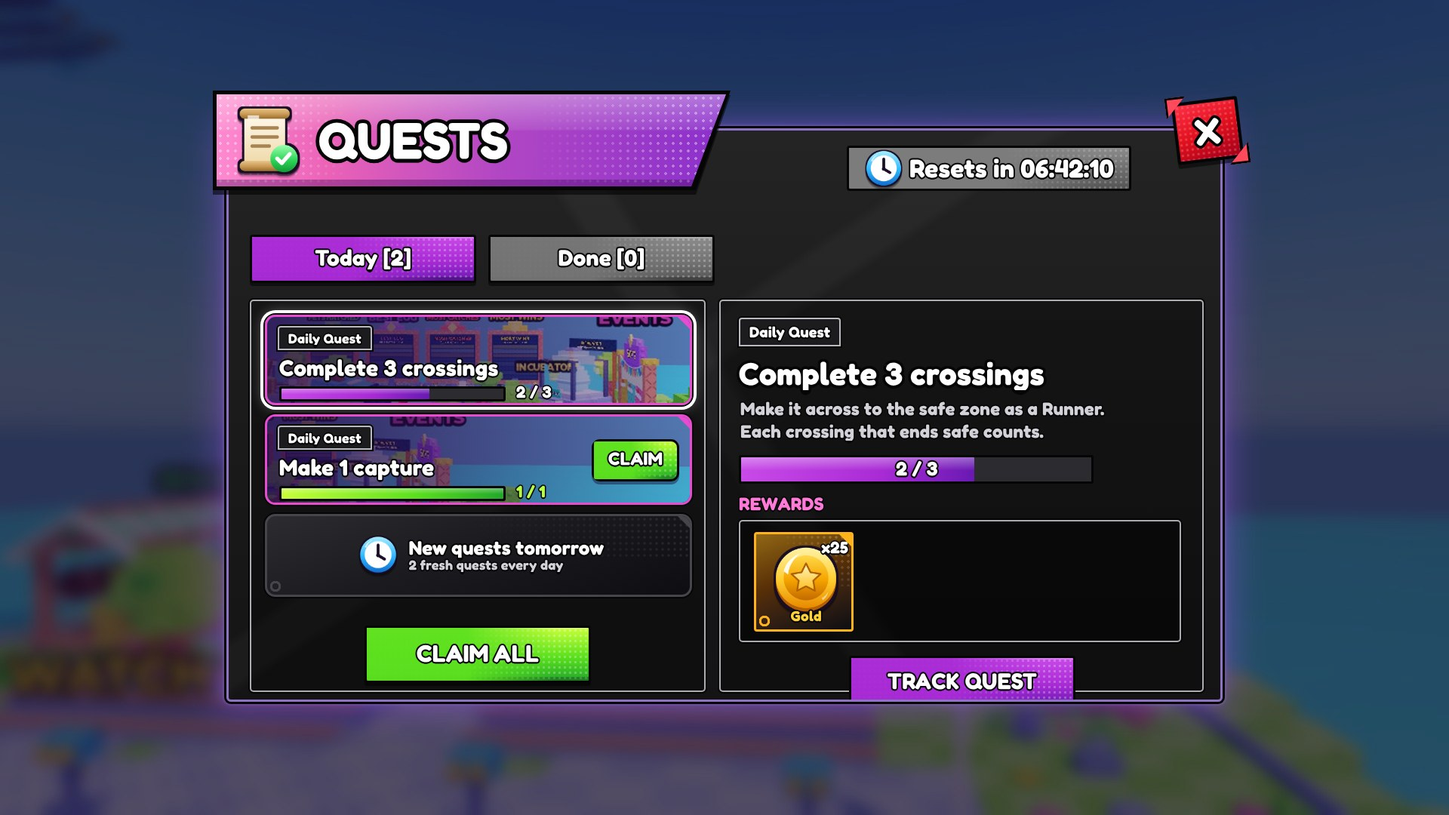
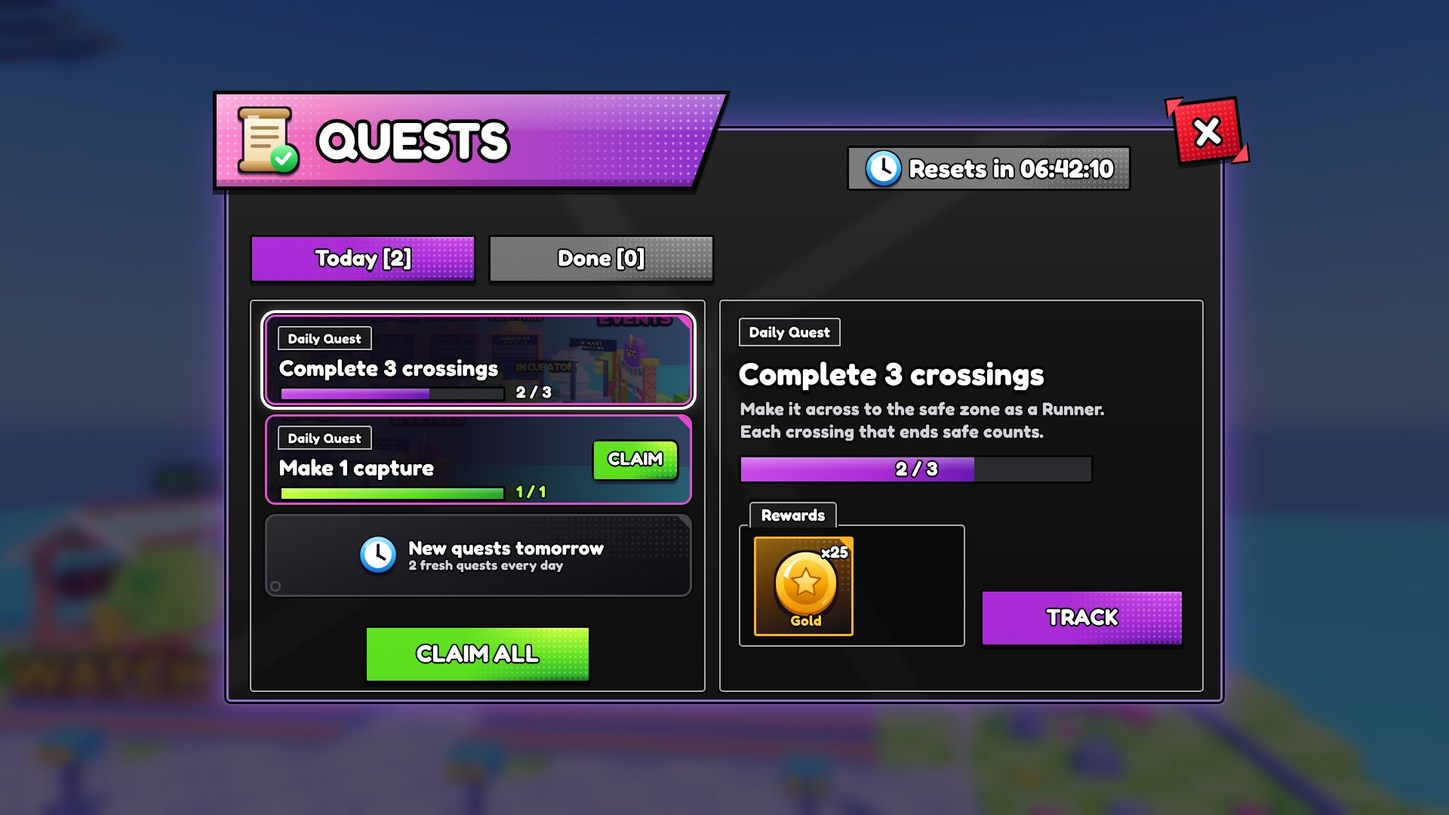
HOS-UI-003: review pass + Huss Valley HUD layout
HUD (lobby, match, phone) rebuilt to the Huss Valley layout in our style; folder-tab section
labels on wells; ring dot removed under tile labels; readable lobby timer; Quests rewards/track;
Incubator restructured; Results gems colour; keycap glyph.

Claude-Session: https://claude.ai/code/session_01RfKJiKr9ePhA7FoxdhhxZp

Changed region(s): [[0.1875, 0.3667, 0.5, 0.6417], [0.5, 0.6111, 0.8438, 0.8861]]

diff --git a/ui/styles/sport.css b/ui/styles/sport.css
@@ -154,3 +154,10 @@ img[src*='sunburst'] { opacity: .12 !important; }
 .f-orange { --fg: linear-gradient(#ffa040, #ffa040); } .f-teal { --fg: linear-gradient(#4af0d0, #4af0d0); }
 .f-violet { --fg: linear-gradient(#b89aff, #b89aff); }
 .sbn .spk { display: none; }  /* sparkle removed: Hunter 16 Oct, sat on the icon */
+
+/* round-3 review pass (16 Oct) */
+.wtab { position: absolute; height: 34px; padding: 0 14px; display: flex; align-items: center; z-index: 3;
+  border-radius: 5px 5px 0 0; border: 2px solid rgba(225,225,232,.75); border-bottom: 0; box-shadow: 0 -2px 0 2px #050506;
+  background: #1c1c1e; }
+.cs.lab { background: linear-gradient(160deg, color-mix(in srgb, var(--r2) 55%, #0c0c10) 0%, color-mix(in srgb, var(--r3) 60%, #0c0c10) 45%, #0e0e12 100%); }
+.cs.fill.lab { background: linear-gradient(160deg, var(--r2) 0%, var(--r3) 60%, color-mix(in srgb, var(--r3) 45%, #000) 100%); }

diff --git a/ui/build.py b/ui/build.py
@@ -131,8 +131,10 @@ def bl(text, size=34, fill='', name=None):
     return T(text, size, 's', fill, name=name)
 
 
-def well(x, y, w, h, inner='', name=None, solid=False, style=''):
-    return box(x, y, w, h, inner, 'cw' + (' solid' if solid else ''), style, name=name)
+def well(x, y, w, h, inner='', name=None, solid=False, style='', title=None, extra=''):
+    """Sub-box. title = the reference's folder tab ("Status") sitting on the top edge, white text."""
+    tab = (f"<div class='wtab' style='left:{x + 14}px;top:{y - 30}px'>{T(title, 22, 'xs')}{extra}</div>" if title else '')
+    return tab + box(x, y, w, h, inner, 'cw' + (' solid' if solid else ''), style, name=name)
 
 
 def slot(x, y, s, rarity, icon=None, count=None, label=None, cls='', name=None, art_pad=.14, label_size=None, inner_extra=''):
@@ -145,7 +147,7 @@ def slot(x, y, s, rarity, icon=None, count=None, label=None, cls='', name=None, 
     if label:
         inner += at(s // 2, s - int(s * .26), T(label, label_size or max(16, int(s * .15)), 'xs', FILL.get(rarity, '')), w=s + 20, align='center', name='Label')
     inner += inner_extra
-    return box(x, y, s, s, inner, f'cs r-{rarity} {cls}', name=name)
+    return box(x, y, s, s, inner, f'cs r-{rarity} {cls}' + (' lab' if label else ''), name=name)
 
 
 def stars(n, of=3, size=26):
@@ -222,7 +224,7 @@ def hpill(x, y, w, h, color, icon, label, name, opens=None, size=34, badge=False
     inner = f"<div class='hp k-{color}' style='left:{x}px;top:{y}px;width:{w}px;height:{h}px'><div class='lbl'>{T(label, size, 's', name='Label')}</div></div>"
     inner += I(icon, x - 14, y - 12, h + 24, name='Icon')
     if badge:
-        inner += box(x + w - 30, y - 14, 44, 44, T('!', 26, 'xs'), 'badge', name='Badge')
+        inner += box(x + w - 18, y - 20, 40, 40, T('!', 24, 'xs'), 'badge', name='Badge')
     return sub(name, inner, btn=True, opens=opens)
 
 
@@ -258,16 +260,17 @@ def ability_card(y=944, lobby=True, cd=None):
     out += at(x + 122, y + 12, row(icn(pool[2], 40), T(pool[1].upper(), 38, 's', name='AbilityName')), name='AbilityRow')
     sub_t = 'SHADES SHARK  ·  EQUIPPED' if lobby else ('READY!' if cd is None else f'RECHARGING  {cd}s')
     out += at(x + 124, y + 64, T(sub_t, 20, 'xs', 'f-orange' if cd is None else 'f-dim', name='Status'))
-    out += f"<div class='keycap' data-n='Key' style='left:{x + w - 82}px;top:{y + 26}px'>{T('Q', 32, 's')}</div>"
+    out += f"<div class='keycap' data-n='Key' style='left:{x + w - 82}px;top:{y + 26}px'>{T('Q', 30, 's', style='font-family:Montserrat;font-weight:900')}</div>"
     out += bar(x + 120, y + h - 20, w - 220, 14, 1 if cd is None else .42, 'orange', 'Cooldown')
     return grp('Ability', out, 'B')
 
 
 def lobby_status():
-    out = btn(880, 12, 160, 48, 'sky', T('LOBBY', 26, 's'), cls='sm', name='PhaseChip')
-    out += at(960, 68, T('NEXT MATCH IN', 28, 's', 'f-dim', name='Headline'), w=500, align='center')
-    out += at(960, 98, T('0:12', 92, 'xl', name='Timer'), w=500, align='center')
-    out += at(960, 202, T('4 / 4 players ready', 28, 's', 'f-lime', name='Subline'), w=600, align='center')
+    out = f"<div class='glass' style='left:810px;top:14px;width:300px;height:206px'></div>"   # readable over bright sky
+    out += btn(850, 0, 220, 44, 'purple', T('LOBBY', 24, 's'), cls='sm', name='PhaseChip')
+    out += at(960, 54, T('NEXT MATCH IN', 22, 'xs', 'f-dim', name='Headline'), w=300, align='center')
+    out += at(960, 78, T('0:12', 88, 'xl', name='Timer'), w=300, align='center')
+    out += at(960, 176, T('4 / 4 players ready', 24, 's', 'f-lime', name='Subline'), w=300, align='center')
     return grp('Status', out, 'T')
 
 
@@ -276,7 +279,7 @@ def goal_pill():
     out = f"<div class='glass' style='left:{x}px;top:{y}px;width:{w}px;height:{h}px'></div>"
     out += slot(x + 14, y + 12, 80, 'common', 'piece_common', name='GoalSlot', art_pad=.1)
     out += at(x + 108, y + 12, T('YOUR FIRST PET', 28, 's', name='GoalTitle'))
-    out += at(x + w - 20, y + 14, T('4 / 2', 26, 's', 'f-lime', name='GoalCount'), w=140, align='right')
+    out += at(x + w - 20, y + 14, T('2 / 2', 26, 's', 'f-lime', name='GoalCount'), w=140, align='right')
     out += bar(x + 108, y + 56, w - 128, 30, 1, 'lime', 'GoalBar')
     out += at(x + 108 + (w - 128) // 2, y + 57, T('READY TO HATCH!', 18, 'xs'), w=w - 128, align='center')
     return sub('GoalPill', out, btn=True, opens='Incubator')
@@ -295,11 +298,11 @@ def hud_groups():
     return grp('TopLeft', tl, 'TL') + grp('TopRight', tr, 'TR') + grp('LeftRail', left, 'L') + lobby_status() + wallet() + ability_card()
 
 
-def s_hud():
+def s_hud_v1():
     return world() + topbar() + hud_groups()
 
 
-def s_hud_phone():
+def s_hud_phone_v1():
     """Landscape phone: canvas ~0.36x, so the rail and wallet grow; Roblox thumbstick/jump kept clear."""
     out = world() + topbar()
     tl = hpill(250, 22, 262, 84, 'pink', 'quests', 'QUESTS', 'QuestsButton', 'Quests', size=32, badge=True)
@@ -317,7 +320,7 @@ def s_hud_phone():
 
 
 # ================================================================== HUD (match): economy hidden (GDD 14)
-def s_hud_match():
+def s_hud_match_v1():
     out = world() + topbar()
     role = f"<div class='hp k-sky' style='left:250px;top:22px;width:360px;height:96px'><div class='lbl' style='padding-left:118px'>{col(T('RUNNER', 40, 'l', name='RoleText'), T('Reach the safe zone!', 20, 'xs', name='RoleHint'), gap=0, align='flex-start')}</div></div>"
     role += I('runner', 230, 8, 120, name='RoleIcon')
@@ -353,6 +356,134 @@ def s_hud_match():
     return out
 
 
+
+# ================================================================== HUD v2: Huss Valley LAYOUT (Hunter, 16 Oct), our style
+# Positions copied from the Huss Valley lobby/round screenshots (1920 design): small pills beside Roblox's
+# buttons (top-left), phase + one-line headline + subline (top-centre), two pills (top-right), a slim
+# vertical rail (left middle), currency plates stacked (bottom-left), ability card + "SPACE · DASH" with a
+# long dash bar (bottom-centre). Additions for our GDD: first-pet goal under the top-left pills (FTUE),
+# egg level replacing the wallet in a match (GDD 14), a compact steal feed (top-right, match only).
+def hv_pill(x, y, w, color, icon, label, name, opens=None, badge=False, h=58):
+    inner = f"<div class='hp k-{color}' style='left:{x}px;top:{y}px;width:{w}px;height:{h}px'><div class='lbl' style='padding-left:{h + 6}px'>{T(label, 26, 's', name='Label')}</div></div>"
+    inner += I(icon, x - 6, y - 8, h + 14, name='Icon')
+    if badge:
+        inner += box(x + w - 16, y - 14, 34, 34, T('!', 20, 'xs'), 'badge', name='Badge')
+    return sub(name, inner, btn=True, opens=opens)
+
+
+def hv_rail_btn(x, y, s, color, icon, label, name, opens=None, state=None, key=None):
+    inner = f"<div class='hb k-{color}' style='left:{x}px;top:{y}px;width:{s}px;height:{s}px'></div>"
+    inner += I(icon, x + int(s * .14), y + int(s * .04), int(s * .72), name='Icon')
+    inner += at(x + s // 2, y + s - 26, T(label, 19, 'xs', name='Label'), w=s + 20, align='center')
+    if state:
+        inner += btn(x + s - 30, y - 12, 54, 28, 'lime' if state == 'ON' else 'grey', T(state, 14, 'xs', name='StateText'), cls='sm', name='State')
+    if key:
+        inner += f"<div class='keycap' style='left:{x + s - 20}px;top:{y - 10}px;width:32px;height:32px;border-width:3px'>{T(key, 16, 'xs', style='font-family:Montserrat;font-weight:900')}</div>"
+    return sub(name, inner, btn=True, opens=opens)
+
+
+def hv_topcenter(phase, head, subline, extra=''):
+    out = at(960, 6, T(phase, 22, 'xs', name='Phase'), w=600, align='center')
+    out += at(960, 30, T(head, 50, 'l', name='Headline'), w=1200, align='center')
+    out += at(960, 98, subline, w=900, align='center', name='Subline')
+    return grp('Status', out + extra, 'T')
+
+
+def hv_plate(y, icon, value, label, fill, name):
+    out = f"<div class='glass' style='left:12px;top:{y}px;width:340px;height:84px'></div>"
+    out += I(icon, 20, y + 8, 68, name=f'{name}Icon')
+    out += at(100, y + 6, T(value, 46, 'l', fill, name=f'{name}Text'))
+    out += at(102, y + 58, T(label, 15, 'xs', 'f-dim'))
+    return out
+
+
+def hv_ability(lobby=True, cd=None):
+    pool = POOL['DoubleDash']
+    x, y, w, h = 740, 820, 440, 96
+    out = f"<div class='glass' style='left:{x}px;top:{y}px;width:{w}px;height:{h}px'></div>"
+    out += f"<div class='wtab' style='left:{x + 12}px;top:{y - 26}px;height:28px'>{T('ABILITY', 14, 'xs')}</div>"
+    out += box(x + 14, y + 16, 72, 72, I(pet_img('ShadesShark'), 2, 2, 68), '', 'border-radius:50%;border:3px solid #4ed45a;box-shadow:0 0 0 2px #050506;background:radial-gradient(#2a6a34,#0e1a12);overflow:hidden', name='PetDisc')
+    out += at(x + 100, y + 18, row(icn(pool[2], 30), T(pool[1].upper(), 28, 's', name='AbilityName'), gap=6))
+    st = 'EQUIPPED  ·  SHADES SHARK' if lobby else ('READY' if cd is None else f'RECHARGING  {cd}s')
+    out += at(x + 102, y + 56, T(st, 15, 'xs', 'f-orange' if cd is None else 'f-dim', name='Status'))
+    out += f"<div class='keycap' data-n='Key' style='left:{x + w - 64}px;top:{y + 22}px;width:48px;height:48px'>{T('Q', 26, 's', style='font-family:Arial,sans-serif;font-weight:900')}</div>"
+    out += bar(x + 100, y + h - 14, w - 180, 8, 1 if cd is None else .42, 'orange', 'Cooldown')
+    return grp('Ability', out, 'B')
+
+
+def hv_dash(left, right, frac=1):
+    out = at(960, 934, row(T('SPACE', 24, 's'), T('·', 24, 's', 'f-dim'), T('DASH', 24, 's'), gap=10), w=400, align='center')
+    out += at(630, 966, T(left, 15, 'xs', name='DashState'))
+    out += at(1290, 966, T(right, 15, 'xs', 'f-dim', name='DashHint'), w=500, align='right')
+    out += bar(630, 990, 660, 14, frac, 'sky', 'DashBar')
+    return grp('Dash', out, 'B')
+
+
+def hv_goal():
+    x, y, w, h = 228, 86, 460, 74
+    out = f"<div class='glass' style='left:{x}px;top:{y}px;width:{w}px;height:{h}px'></div>"
+    out += I('piece_common', x + 8, y + 6, 62, name='GoalIcon')
+    out += at(x + 80, y + 8, T('YOUR FIRST PET', 20, 'xs', name='GoalTitle'))
+    out += at(x + w - 14, y + 8, T('2 / 2', 20, 'xs', 'f-lime', name='GoalCount'), w=120, align='right')
+    out += bar(x + 80, y + 38, w - 96, 24, 1, 'lime', 'GoalBar') + at(x + 80 + (w - 96) // 2, y + 39, T('READY TO HATCH!', 15, 'xs'), w=w - 96, align='center')
+    return sub('GoalPill', out, btn=True, opens='Incubator')
+
+
+def s_hud():
+    out = world() + topbar()
+    tl = hv_pill(240, 12, 196, 'purple', 'quests', 'QUESTS', 'QuestsButton', 'Quests', badge=True)
+    tl += hv_pill(452, 12, 236, 'lime', 'incubator', 'INCUBATOR', 'IncubatorButton', 'Incubator', badge=True) + hv_goal()
+    tr = hv_pill(1468, 12, 196, 'blue', 'stats', 'STATS', 'StatsButton', 'Stats') + hv_pill(1680, 12, 228, 'grey', 'settings', 'SETTINGS', 'SettingsButton', 'Settings')
+    rail = (hv_rail_btn(10, 330, 96, 'gold', 'shop', 'SHOP', 'ShopButton', 'Shop', key='B') + hv_rail_btn(10, 440, 96, 'sky', 'pets', 'PETS', 'PetsButton', 'Pets', key='P')
+            + hv_rail_btn(10, 550, 96, 'grey', 'afk', 'AFK', 'AFKToggle', state='OFF') + hv_rail_btn(10, 660, 96, 'red', 'hunt', 'HUNT', 'VolunteerToggle', state='ON'))
+    out += grp('TopLeft', tl, 'TL') + grp('TopRight', tr, 'TR') + grp('Rail', rail, 'L')
+    out += hv_topcenter('LOBBY', 'Next match in 0:12', row(T('4 / 4 players ready', 22, 'xs', 'f-lime'), T('·', 22, 'xs', 'f-dim'), T('you start as a Runner', 22, 'xs'), gap=8))
+    out += grp('Wallet', hv_plate(878, 'gold', '1,250', 'GOLD', 'f-gold', 'Gold') + hv_plate(972, 'gem', '12', 'GEMS', 'f-lime', 'Gems'), 'BL')
+    out += hv_ability() + hv_dash('DASH READY', 'Move, then turn + dash')
+    return out
+
+
+def s_hud_match():
+    out = world() + topbar()
+    pips = ''.join(f"<span class='pip k-lime{' on' if i == 0 else ''}' style='position:relative;display:inline-block;margin:0 8px'></span>" for i in range(3))
+    sub_l = row(T('Runner', 22, 'xs', 'f-sky', name='RoleText'), T('·', 22, 'xs', 'f-dim'), T('0:21', 22, 'xs', name='Timer'), T('·', 22, 'xs', 'f-dim'),
+                T('14 Runners', 22, 'xs', 'f-sky'), T('vs', 22, 'xs', 'f-dim'), T('4 Catchers', 22, 'xs', 'f-red'), gap=8)
+    streak = at(960, 138, row(T('CLEAN STREAK', 15, 'xs', 'f-dim'), f"<span style='display:inline-flex'>{pips}</span>", gap=8), w=400, align='center')
+    out += hv_topcenter('CROSSING 2', 'Cross to the opposite safe side!', sub_l, streak)
+    eg = f"<div class='glass' style='left:12px;top:878px;width:340px;height:178px'></div>"
+    eg += slot(26, 892, 112, 'rare', 'egg_shiny', name='EggSlot', art_pad=.1)
+    eg += at(152, 896, T('YOUR EGG', 16, 'xs', 'f-dim')) + at(152, 918, T('LEVEL 2', 44, 'l', 'f-rare', name='EggLevel'))
+    for i in range(4):
+        eg += f"<div class='pip k-sky{' on' if i < 2 else ''}' style='left:{158 + i * 38}px;top:984px'></div>"
+    eg += at(152, 1022, row(T('pays', 15, 'xs', 'f-dim'), icn('piece_rare', 24), T('Rare', 15, 'xs', 'f-rare', name='PaysText'), gap=4))
+    out += grp('Egg', eg, 'BL')
+    fd = ''
+    for i, (a, verb, b, ic, fill) in enumerate([('Kai', 'stole', "Mia's Lv 2 egg", 'steal', 'f-red'), ('Zoe', 'is safe with', 'Lv 3', 'safe', 'f-lime'), ('Ben', 'caught', 'Leo', 'catcher', 'f-red')]):
+        y = 84 + i * 50
+        fd += f"<div class='glass' style='left:1530px;top:{y}px;width:378px;height:42px;opacity:{1 - i * .2}'></div>" + I(ic, 1518, y - 4, 50)
+        fd += at(1572, y + 10, row(T(a, 18, 'xs'), T(verb, 18, 'xs', fill), T(b, 18, 'xs'), gap=6))
+    out += grp('Feed', fd, 'TR')
+    out += hv_ability(lobby=False, cd=8) + hv_dash('DASH ON COOLDOWN', 'Space to dash sideways or back', .55)
+    out += cap(560, 470, 'Match: only phase, headline, role/timer/teams, streak, egg level, ability and dash (GDD 14).')
+    return out
+
+
+def s_hud_phone():
+    """Landscape phone: same Huss Valley layout, bigger targets (>=124 design px), thumbs kept clear."""
+    out = world() + topbar()
+    tl = hv_pill(240, 12, 220, 'purple', 'quests', 'QUESTS', 'QuestsButton', 'Quests', badge=True, h=72)
+    tl += hv_pill(476, 12, 270, 'lime', 'incubator', 'INCUBATOR', 'IncubatorButton', 'Incubator', badge=True, h=72)
+    tr = hv_pill(1640, 12, 268, 'grey', 'settings', 'SETTINGS', 'SettingsButton', 'Settings', h=72)
+    rail = (hv_rail_btn(10, 250, 130, 'gold', 'shop', 'SHOP', 'ShopButton', 'Shop') + hv_rail_btn(10, 396, 130, 'sky', 'pets', 'PETS', 'PetsButton', 'Pets')
+            + hv_rail_btn(10, 542, 130, 'red', 'hunt', 'HUNT', 'VolunteerToggle', state='ON'))
+    out += grp('TopLeft', tl, 'TL') + grp('TopRight', tr, 'TR') + grp('Rail', rail, 'L')
+    out += hv_topcenter('LOBBY', 'Next match in 0:12', T('4 / 4 players ready', 26, 's', 'f-lime'))
+    out += grp('Wallet', hv_plate(878, 'gold', '1,250', 'GOLD', 'f-gold', 'Gold') + hv_plate(972, 'gem', '12', 'GEMS', 'f-lime', 'Gems'), 'BL')
+    out += hv_ability()
+    out += "<div class='rbx' style='left:380px;top:640px;width:300px;height:300px'>Roblox thumbstick</div>"
+    out += "<div class='rbx' style='left:1640px;top:760px;width:220px;height:220px'>Roblox jump (= DASH)</div>"
+    return out
+
 # ================================================================== Quests (QuestConfig: 2 daily, UTC reset)
 QUESTS = [  # title, art, progress, target, gold reward, state
     ('Complete 3 crossings', 'art_boards', 2, 3, 25, 'active'),
@@ -368,7 +499,7 @@ def s_quests():
     for i, (title, art, p, t, g, st) in enumerate(QUESTS):
         y = 18 + i * 132
         card = f"<img src='{art}.jpg' style='position:absolute;inset:0;width:100%;height:100%;object-fit:cover'>"
-        card += "<div class='abs fill' style='background:linear-gradient(90deg,rgba(40,10,70,.85),rgba(40,10,70,.25))'></div>"
+        card += "<div class='abs fill' style='background:linear-gradient(90deg,rgba(14,10,22,.94) 0 45%,rgba(14,10,22,.6))'></div>"
         card += tag(14, 12, 'Daily Quest', 'blue', 18, 32)
         card += at(16, 52, T(title, 30, 's'))
         card += bar(16, 92, 300, 20, p / t, 'lime' if st == 'ready' else 'pink', 'Progress')
@@ -385,10 +516,10 @@ def s_quests():
     d += at(26, 130, T('Make it across to the safe zone as a Runner.', 24, 'xs', 'f-dim', name='QuestDesc'))
     d += at(26, 160, T('Each crossing that ends safe counts.', 24, 'xs', 'f-dim'))
     d += bar(24, 204, 470, 38, 2 / 3, 'pink', 'Progress') + at(260, 208, T('2 / 3', 26, 's'), w=470, align='center')
-    d += at(24, 256, T('REWARDS', 24, 'xs', 'f-pink'))
+
     rw = slot(18, 14, 132, 'gold', 'gold', 'x25', 'Gold', name='Reward1') + slot(166, 14, 132, 'common', 'piece_common', 'x1', 'Bonus', name='Reward2', cls='hid')
-    d += well(24, 290, 586, 162, rw, name='Rewards', solid=True)
-    d += btn(170, 470, 300, 70, 'pink', bl('TRACK QUEST', 30), name='Track')
+    d += well(24, 296, 300, 162, rw, name='Rewards', solid=True, title='Rewards')
+    d += btn(344, 382, 270, 76, 'purple', bl('TRACK', 30), name='Track')
     b += well(650, 112, 642, 520, d, name='Detail')
     right = row(icn('clock', 52), T('Resets in 06:42:10', 34, 's', name='ResetText'), gap=8)
     return world('bg_lobby_blur.jpg', False) + dim() + panel('Quests', 'pink', 'Quests', 'quests', b, x0, y0, W, H, right)
@@ -398,11 +529,11 @@ def s_quests():
 def s_incubator(first=True):
     x0, y0, W, H = 210, 104, 1500, 884
     b = ''
-    pc = at(22, 14, T('YOUR PIECES', 24, 'xs', 'f-lime'))
+    pc = ''
     for i, m in enumerate(['common', 'rare', 'epic']):
         n = PIECES[m]
-        pc += slot(22 + i * 132, 50, 118, m, 'piece_' + m, f'x{n}', TIER_NAME[m], cls='locked' if n == 0 else '', name=f'Piece_{m}', art_pad=.14)
-    b += well(26, 24, 434, 196, pc, name='Pieces')
+        pc += slot(22 + i * 132, 26, 118, m, 'piece_' + m, f'x{n}', TIER_NAME[m], cls='locked' if n == 0 else '', name=f'Piece_{m}', art_pad=.14)
+    b += well(26, 40, 434, 170, pc, name='Pieces', title='Your Pieces')
     b = incubator_top(b, first)
     b = incubator_rest(b, first)
     return world('bg_lobby_blur.jpg', False) + dim() + panel('Incubator', 'lime', 'Incubator', 'incubator', b, x0, y0, W, H)
@@ -410,46 +541,46 @@ def s_incubator(first=True):
 
 def incubator_top(b, first):
     if not first:  # after the first pet: collection progress per family replaces the first-pet path
-        tr = at(24, 14, T('YOUR COLLECTION', 24, 'xs', 'f-lime'))
+        tr = ''
         found = {'DoubleDash': 2, 'Invisibility': 1, 'Decoy': 1, 'Shield': 2, 'Wall': 1, 'PetTackle': 1}
         for i, (pid, title, ic, colr, blurb, pets) in enumerate(POOLS):
             cx = 22 + i * 160
-            tr += slot(cx, 52, 88, colr, ic, cls='fill', art_pad=.14)
-            tr += at(cx + 44, 146, T(f'{found[pid]} / {len(pets)}', 22, 's'), w=150, align='center')
-        b += well(476, 24, 998, 196, tr, name='Collection')
+            tr += slot(cx, 20, 88, colr, ic, cls='fill', art_pad=.14)
+            tr += at(cx + 44, 116, T(f'{found[pid]} / {len(pets)}', 22, 's'), w=150, align='center')
+        b += well(476, 40, 998, 170, tr, name='Collection', title='Your Collection')
     else:
         b += first_path()
     return b
 
 
 def first_path():
-    tr = at(24, 14, row(T('YOUR FIRST PET', 24, 'xs', 'f-lime'), T('free family choice!', 20, 'xs', 'f-gold'), gap=12))
-    tr += bar(80, 102, 820, 26, 1, 'lime', 'Track')
+    tr = ''
+    tr += bar(80, 64, 820, 26, 1, 'lime', 'Track')
     for i, (lab, ic) in enumerate([('Start', None), ('Match 1', 'piece_common'), ('Match 2', 'piece_common'), ('Hatch!', 'egg_basic')]):
         nx = 40 + i * 270
-        tr += slot(nx, 66, 100, 'gold' if i == 3 else 'common', ic, label=None, name=f'Step{i}', art_pad=.14,
-                   inner_extra='' if ic else at(50, 30, T('GO', 32, 's'), w=100, align='center'), cls='fill' if i == 0 else '')
-        tr += at(nx + 50, 172, T(lab, 22, 's', 'f-gold' if i == 3 else ''), w=200, align='center')
-    return well(476, 24, 998, 196, tr, name='FirstPet')
+        tr += slot(nx, 28, 100, 'gold' if i == 3 else 'common', ic, label=None, name=f'Step{i}', art_pad=.14,
+                   inner_extra='' if ic else I('check', 20, 18, 60), cls='fill' if i == 0 else '')
+        tr += at(nx + 50, 132, T(lab, 22, 's', 'f-gold' if i == 3 else ''), w=200, align='center')
+    return well(476, 40, 998, 170, tr, name='FirstPet', title='Your First Pet', extra=T('free family choice', 18, 'xs', 'f-gold', style='margin-left:12px'))
 
 
 def incubator_rest(b, first):
-    fp = at(22, 12, T('PICK A FAMILY', 24, 'xs', 'f-lime'))
+    fp = ''
     for i, (pid, title, ic, colr, blurb, pets) in enumerate(POOLS):
-        cx, cy = 22 + (i % 3) * 146, 50 + (i // 3) * 158
+        cx, cy = 22 + (i % 3) * 146, 22 + (i // 3) * 158
         fp += slot(cx, cy, 132, colr, ic, label=title, cls='fill sel' if pid == 'DoubleDash' else 'fill', name=f'Family_{pid}', art_pad=.18, label_size=17)
-    b += well(26, 236, 466, 380, fp, name='Families')
+    b += well(26, 262, 466, 340, fp, name='Families', title='Pick A Family')
     pool = POOL['DoubleDash']
-    lad = at(22, 12, row(icn(pool[2], 44), T(pool[1].upper(), 34, 's'), T(pool[4], 20, 'xs', 'f-dim'), gap=10))
+    lad = ''
     for i, pet in enumerate(pool[5][:3]):
         t = TIERS[i]
-        sx = 22 + i * 186
-        lad += slot(sx, 66, 172, t, pet_img(pet), name=f'Species_{t}', art_pad=.04)
-        lad += at(sx + 86, 246, T(P[pet], 22, 's'), w=200, align='center') + at(sx + 86, 276, T(TIER_NAME[t], 18, 'xs', FILL[t]), w=200, align='center')
-        lad += at(sx + 86, 304, row(icn('piece_' + t, 26), T(f'{RECIPES[t][0]} random · {RECIPES[t][1]} pick', 16, 'xs', 'f-dim'), gap=4), w=200, align='center')
-    lad += slot(22 + 3 * 186 + 6, 66, 120, 'crowned', pet_img(pool[5][3]), cls='locked', name='Species_crowned', art_pad=.06, inner_extra=I('lock', 36, 34, 48))
-    lad += at(22 + 3 * 186 + 66, 196, T('Crowned', 18, 'xs', 'f-gold'), w=140, align='center') + at(22 + 3 * 186 + 66, 220, T('coming later', 16, 'xs', 'f-dim'), w=140, align='center')
-    b += well(508, 236, 966, 380, lad, name='Ladder')
+        sx = 34 + i * 214
+        lad += slot(sx, 24, 172, t, pet_img(pet), name=f'Species_{t}', art_pad=.04)
+        lad += at(sx + 86, 206, T(P[pet], 22, 's'), w=200, align='center') + at(sx + 86, 236, T(TIER_NAME[t], 18, 'xs', FILL[t]), w=200, align='center')
+        lad += at(sx + 86, 266, row(icn('piece_' + t, 26), T(f'{RECIPES[t][0]} random · {RECIPES[t][1]} pick', 16, 'xs', 'f-dim'), gap=4), w=200, align='center')
+    lad += slot(34 + 3 * 214 + 26, 24, 150, 'crowned', pet_img(pool[5][3]), cls='locked', name='Species_crowned', art_pad=.06, inner_extra=I('lock', 45, 40, 60))
+    lad += at(34 + 3 * 214 + 101, 206, T('Crowned', 22, 's', 'f-gold'), w=180, align='center') + at(34 + 3 * 214 + 101, 236, T('coming later', 16, 'xs', 'f-dim'), w=140, align='center')
+    b += well(508, 262, 966, 340, lad, name='Ladder', title=f'{pool[1]}  ·  {pool[4]}', extra='')
     if first:
         hb = at(30, 22, row(icn('egg_basic', 70), col(T('HATCH YOUR FIRST PET', 32, 's'), T('Shades Shark  ·  Double Dash  ·  costs 2 Common pieces', 20, 'xs', 'f-dim'), gap=2, align='flex-start'), gap=14))
         hb += btn(1000, 18, 420, 86, 'lime', row(bl('HATCH', 38), icn('piece_common', 40), T('x2', 26, 's')), name='BtnHatch')
@@ -626,7 +757,7 @@ def s_results():
         y += at(40, 112 + i * 40, T(lab, 22, 'xs', 'f-dim')) + at(480, 106 + i * 40, row(T(f'+{amt}', 26, 's', 'f-gold'), icn('gold', 30), gap=4), w=200, align='right')
     y += "<div class='abs' style='left:36px;top:280px;width:444px;height:4px;background:rgba(255,255,255,.2)'></div>"
     y += at(40, 296, T('TOTAL', 26, 's')) + at(480, 288, row(T('+86', 40, 'l', 'f-gold', name='GoldTotal'), icn('gold', 44), gap=4), w=240, align='right')
-    y += slot(530, 112, 146, 'gold', 'gem', 'x4', 'Gems', name='GemsSlot')
+    y += slot(530, 112, 146, 'lime', 'gem', 'x4', 'Gems', name='GemsSlot')
     y += slot(530, 274, 146, 'epic', 'piece_epic', 'x1', 'Epic', name='PieceSlot')
     y += at(40, 352, row(icn('egg_cosmic', 54), col(T('Best egg: Level 3', 26, 's', 'f-epic'), T('pays 1 Epic piece', 18, 'xs', 'f-dim'), gap=0, align='flex-start'), gap=8))
     y += bar(40, 434, 440, 32, 1 / 5, 'purple', 'RecipeBar') + at(260, 437, T('Epic pieces 1 / 5', 18, 'xs'), w=440, align='center')

diff --git a/.claude/skills/roblox-ui-maker/LESSONS.md b/.claude/skills/roblox-ui-maker/LESSONS.md
@@ -68,6 +68,9 @@ Format: **rule**, then why (what went wrong or what the developer said).
 - **Centre bursts and shines exactly on what they frame; never place a texture by eye.** Texture sunbursts have off-centre
   rays, and a corner sparkle on a title banner sat on the icon. Draw rays in CSS centred on the target, or leave them out.
   - Hunter: "runners win isn't centered behind the shine"; banner sparkle "in the wrong place".
+- (Applied 16 Oct, Evolve or Steal) Hunter sent Huss Valley screenshots as the HUD LAYOUT reference while the Units concept stays
+  the STYLE: HUD rebuilt to Huss Valley positions (pills top-left, phase+headline top-centre, slim left rail, stacked currency
+  bottom-left, ability card + SPACE·DASH bar bottom-centre), in our tokens.
 - **Stud is the default, not universal.** When a game is declared "not stud" (scroll RPG, sleek shooter), no
   stud plates or textures anywhere, lobby included.
 - **"AI-looking UI" = flat beige rounded rectangles, one font, no depth, no motion.** Fix with a themed palette,
